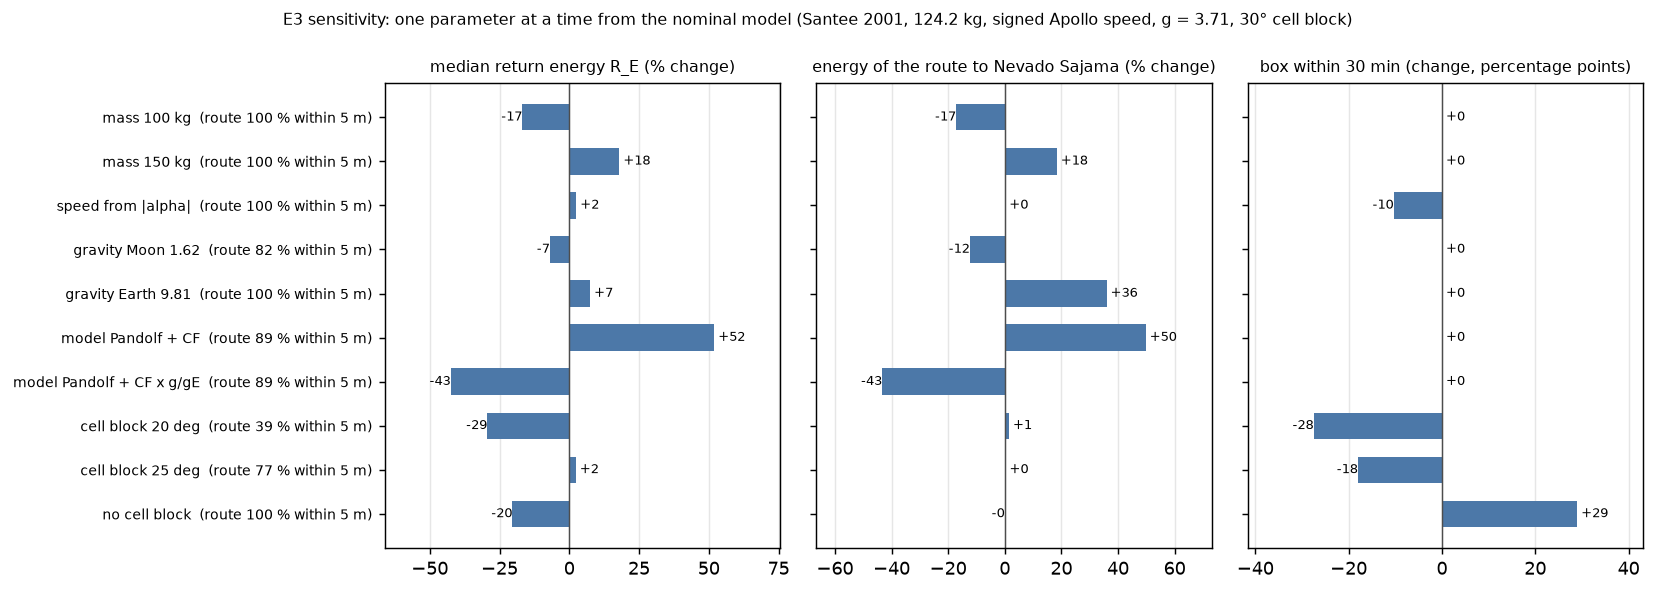
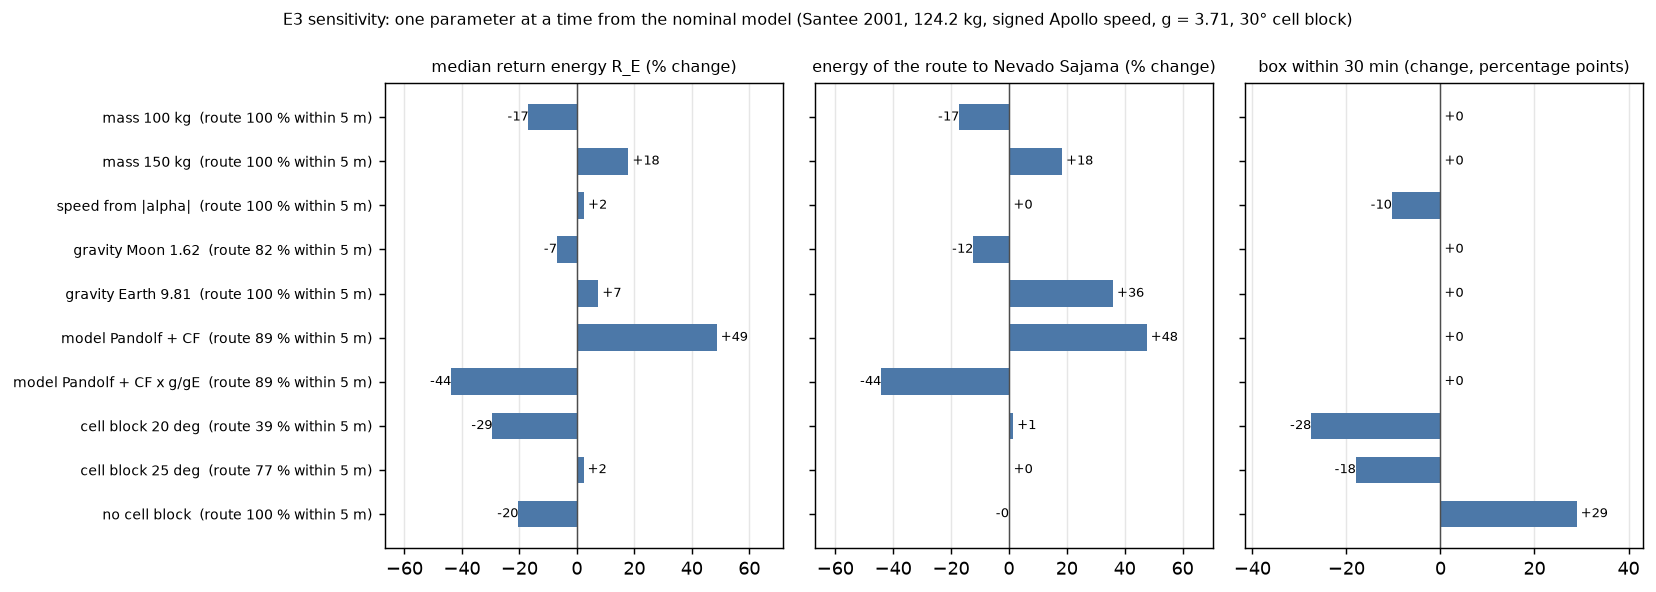
E3: masses from Carr et al. 2003 (76.4 kg astronaut + 47.8 kg suit = 124.2 kg)
The 124.2 kg total traces to Carr, Newman and Hodges (2003, SAE
2003-01-2416): Apollo 14 commander 76.4 kg plus a 47.8 kg suit. The code
comment said "75 + 47.8" and the Pandolf branch used W = 75 kg, so its
load was 124.2 - 75 = 49.2 kg instead of 47.8 kg.
- BODY_MASS_KG = 76.4; pandolf_flat defaults to 76.4 + 47.8.
- Santee nominal (124.2 kg) and every planner result are unchanged.
- Pandolf sensitivity only: flat Earth 315.87 -> 316.63 W, Moon 52.16 ->
  52.29 W; R_E median 205.2 -> 200.8 Wh, route 139.9 -> 137.8 Wh; scaled
  77.6 -> 75.9 Wh, 52.9 -> 52.1 Wh. e3_summary/e3_sensitivity and the
  two E3 figures regenerated; note and reference updated.

diff --git a/src/fisica/metabolic.py b/src/fisica/metabolic.py
@@ -14,7 +14,7 @@ Conventions (do not change without posting in the contracts issue):
 from math import cos, radians, sin, tan
 
 # Nominal parameters (declared assumptions, guide section 9)
-TOTAL_MASS_KG = 124.2          # total suited mass: astronaut + suit + load (the Pandolf check uses 75 + 47.8 kg)
+TOTAL_MASS_KG = 124.2          # 76.4 kg astronaut (Apollo 14 commander) + 47.8 kg suit (Carr et al. 2003)
 G_MARS = 3.71                  # m/s^2
 G_MOON = 1.62
 G_EARTH = 9.81
@@ -74,7 +74,7 @@ def liters_o2(energy_j):
 # with the Santee (2003) downhill correction CF, as reproduced in the CSRM.
 # Terrestrial model, no gravity term. Never mix it with Santee 2001.
 # ---------------------------------------------------------------------------
-BODY_MASS_KG = 75.0                     # W in Pandolf; the load is L = m - W
+BODY_MASS_KG = 76.4                     # W in Pandolf (Carr et al. 2003); the load is L = m - W = 47.8 kg
 
 
 def pandolf_cf_power(body_kg, load_kg, v_mps, alpha_deg, eta=1.0):

diff --git a/tests/fisica/test_metabolic.py b/tests/fisica/test_metabolic.py
@@ -65,7 +65,8 @@ def test_uphill_downhill_asymmetry():
 
 def test_pandolf_cf_branch_reference_values():
     from fisica.metabolic import pandolf_cf_power
-    assert pandolf_cf_power(75, 47.8, 0.75, 0) == pytest.approx(315.87, abs=0.01)   # guide section 6
+    # Carr et al. 2003: 76.4 kg astronaut + 47.8 kg suit (the guide's section 6 used W = 75 kg: 315.87 W)
+    assert pandolf_cf_power(76.4, 47.8, 0.75, 0) == pytest.approx(316.63, abs=0.01)
     up = pandolf_cf_power(75, 47.8, 0.65, 10)
     assert up == pytest.approx(pandolf_cf_power(75, 47.8, 0.65, 10, eta=1.0))      # no CF uphill
     assert pandolf_cf_power(75, 47.8, 0.85, -10) > 0

diff --git a/tests/fisica/test_edge_cost.py b/tests/fisica/test_edge_cost.py
@@ -92,7 +92,7 @@ def test_models_agree_on_definitions():
     a = np.array([0.0, 10.0, -10.0]); v = 0.75 - 0.01 * a
     pan = model_power("pandolf_cf", 124.2, v, a, G_MARS)
     for i in range(3):
-        assert pan[i] == pytest.approx(pandolf_cf_power(75, 49.2, v[i], a[i]), rel=1e-9)
+        assert pan[i] == pytest.approx(pandolf_cf_power(76.4, 47.8, v[i], a[i]), rel=1e-9)
     scaled = model_power("pandolf_cf_scaled", 124.2, v, a, G_MARS)
     assert np.allclose(scaled, pan * G_MARS / G_EARTH)
     with pytest.raises(ValueError):

diff --git a/src/fisica/paper_figures.py b/src/fisica/paper_figures.py
@@ -30,7 +30,7 @@ OUT_FIG = REPO / "paper" / "figures" / "e3_fig1_power_and_cost_vs_slope.png"
 m = TOTAL_MASS_KG
 
 
-def pandolf_flat(body_kg=75.0, load_kg=47.8, v=0.75, eta=1.0):
+def pandolf_flat(body_kg=76.4, load_kg=47.8, v=0.75, eta=1.0):
     """Pandolf (1977) on flat ground, alternative branch (guide section 6)."""
     w, l = body_kg, load_kg
     return 1.5 * w + 2.0 * (w + l) * (l / w) ** 2 + eta * (w + l) * 1.5 * v ** 2

diff --git a/paper/notes/E3_metabolic_cost.md b/paper/notes/E3_metabolic_cost.md
@@ -21,7 +21,7 @@ Why not Pandolf scaled by g_Mars/g_Earth (the CSRM's whole-power scaling)? It fa
 ### Speed, time and energy
 - Speed: Apollo regression V = 0.75 − 0.01·alpha (m/s, alpha in degrees, **signed**: downhill is faster). The CSRM does not say whether alpha is signed; we declare signed and report both in the checks.
 - A move of horizontal length d_h runs d_h / cos(alpha) over the surface, so dt = d_h / (V cos alpha) and E = M · dt (J). Metabolic O2 = E[kJ] / 20.1 kJ/L.
-- Parameters: m = 124.2 kg (total suited mass: astronaut, suit and load), g = 3.71 m/s². The Pandolf comparison uses body 75 kg + load 47.8 kg (122.8 kg); the two masses are not the same split.
+- Parameters: m = 124.2 kg, the Apollo 14 commander's 76.4 kg plus a 47.8 kg suit (cooling garment, suit and life support) [Carr2003]; g = 3.71 m/s². The Pandolf branch uses the same split, W = 76.4 kg and L = 47.8 kg. Until 2026-11-15 it used W = 75 kg (so L = 49.2 kg), as in the guide's section 6; corrected after tracing the 124.2 kg to Carr et al. (2003).
 
 ### Directed edge costs on the grid (`src/fisica/edge_cost.py`)
 - 8-neighbour graph; diagonal moves are √2 m. For each cell and neighbour k: alpha = atan(Δz / d_h) from the DEM, then dt and E as above. Arrays `time_s`, `energy_j`, `alpha_deg` of shape (8, 2000, 2000), float32, NaN = no edge. The graph is **directed**: going up an edge costs more than coming back down.
@@ -41,7 +41,7 @@ Source for every number: `src/fisica/paper_figures.py` → `data/e3/e3_summary.j
 | Quantity | Value | Guide [Guide-REV3] |
 |---|---|---|
 | Flat power, v = 0.75 m/s (Earth, Moon and Mars) | 292.23 W in all three | 292.23 W |
-| Pandolf flat on Earth → whole-power scaling on the Moon | 315.87 W → 52.16 W | 315.87 → 52.16 W |
+| Pandolf flat on Earth → whole-power scaling on the Moon | 316.63 W → 52.29 W (W = 76.4 kg, L = 47.8 kg) | 315.87 → 52.16 W (the guide uses W = 75 kg) |
 | Toy route 5 km (4.1 km flat + 0.9 km horizontal at +10°) | 2215.5 kJ = 615.4 Wh; 110.2 L O2 eq.; 1.91 h | 2215.5 kJ, 615.4 Wh, 110.2 L, 1.91 h |
 | Minimum cost per horizontal metre in ±20°, signed speed | 338.75 J/m at −7.10° | 338.75 J/m at −7.10° |
 | Same with speed from \|alpha\| | 351.00 J/m at −5.41° | 351.00 J/m at −5.41° |
@@ -107,8 +107,8 @@ One parameter at a time from the nominal model (Santee 2001, 124.2 kg, signed Ap
 | speed from |alpha| | 2215 kJ / 1.91 h | 138.4 | 84.4 % | 53.1 % | 93.5 Wh / 15.9 min | 100 % (1 m) |
 | gravity Moon 1.62 | 2071 kJ / 1.91 h | 125.6 | 84.4 % | 63.4 % | 81.8 Wh / 15.7 min | 82 % (17 m) |
 | gravity Earth 9.81 | 2636 kJ / 1.91 h | 145.1 | 84.4 % | 63.4 % | 127.0 Wh / 15.8 min | 100 % (2 m) |
-| model Pandolf + CF | 2892 kJ / 1.91 h | 205.2 | 84.4 % | 63.4 % | 139.9 Wh / 15.8 min | 89 % (16 m) |
-| model Pandolf + CF x g/gE | 1094 kJ / 1.91 h | 77.6 | 84.4 % | 63.4 % | 52.9 Wh / 15.8 min | 89 % (16 m) |
+| model Pandolf + CF | 2840 kJ / 1.91 h | 200.8 | 84.4 % | 63.4 % | 137.8 Wh / 15.8 min | 89 % (16 m) |
+| model Pandolf + CF x g/gE | 1074 kJ / 1.91 h | 75.9 | 84.4 % | 63.4 % | 52.1 Wh / 15.8 min | 89 % (16 m) |
 | cell block 20 deg | 2215 kJ / 1.91 h | 95.3 | 42.9 % | 35.9 % | 94.8 Wh / 16.0 min | 39 % (57 m) |
 | cell block 25 deg | 2215 kJ / 1.91 h | 138.2 | 70.4 % | 45.4 % | 93.6 Wh / 15.8 min | 77 % (17 m) |
 | no cell block | 2215 kJ / 1.91 h | 107.5 | 99.1 % | 92.4 % | 93.3 Wh / 15.7 min | 100 % (1 m) |
@@ -118,7 +118,7 @@ One parameter at a time from the nominal model (Santee 2001, 124.2 kg, signed Ap
 *Figure E3-2. Change against the nominal model of the median return energy, the energy of the route to Nevado Sajama, and the share of the box within 30 min. Labels give the share of each route within 5 m of the nominal route.*
 
 What it shows:
-- **Energy follows mass and model, not time.** Mass changes energy almost proportionally (±17–18 %), and the route stays identical. The metabolic model is the largest energy uncertainty: Pandolf + CF gives +50–52 % and its g-scaled version −43 %, a factor of 2.6 between them. Gravity applied only to the slope term moves the route energy by −12 % (Moon) to +36 % (Earth).
+- **Energy follows mass and model, not time.** Mass changes energy almost proportionally (±17–18 %), and the route stays identical. The metabolic model is the largest energy uncertainty: Pandolf + CF gives +48–49 % and its g-scaled version −44 %, a factor of 2.6 between them. Gravity applied only to the slope term moves the route energy by −12 % (Moon) to +36 % (Earth).
 - **The 30 min line depends only on the speed convention and the cell block,** because E3's speed has no mass, gravity or model term. With speed from |alpha| the share within 30 min falls from 63.4 % to 53.1 %: downhill becomes slower. With the cell block it ranges from 35.9 % (20°) to 92.4 % (no block).
 - **Routes are robust to the physiology, not to the block.** Under every mass, speed and gravity choice, 82–100 % of the route stays within 5 m of the nominal route, and both Pandolf branches keep 89 %. A 20° cell block reroutes it (39 % within 5 m, up to 57 m away) and leaves only 42.9 % of the box able to return.
 - Caveat on the median R_E column: changing the block changes *which* cells can return, so the median is over a different set (20° gives a lower median because only cells near the habitat remain). Read it together with the reachable share.

diff --git a/paper/references.md b/paper/references.md
@@ -6,7 +6,7 @@ Short key, then the source. Add yours in alphabetical order of key; complete ent
 - **[Allison2000]** Allison, M. and McEwen, M. (2000). A post-Pathfinder evaluation of areocentric solar coordinates with improved timing recipes for Mars seasonal/diurnal climate studies. Planetary and Space Science 48, 215–235. Implemented from the equation list and worked examples of the NASA GISS Mars24 page "Algorithm and Worked Examples" (page dated 2025-01-07, read 2026-11-14), which carries the constants revised after the paper: https://www.giss.nasa.gov/tools/mars24/help/algorithm.html
 - **[Brady2019]** Brady, A. L. et al. (2019). BASALT science operations: station selection against a Science Traceability Matrix. Astrobiology 19(3), BASALT special issue (title not checked). Full text: https://www.ebi.ac.uk/europepmc/webservices/rest/PMC6442241/fullTextXML
 - **[Broddrick2024]** Broddrick et al. (2024). Lunar EVA "Science Yield" prototype for the Science Evaluation Room (3/2/1 relevance x priority, MILP). LPSC 2024, NTRS 20240000165 (title not checked). https://ntrs.nasa.gov/citations/20240000165
-- **[Carr2003]** Carr, C. E., Newman, D. J. and Hodges, K. V. (2003). Apollo 14 EVA energy estimates (NASA 1495/1599 kJ, model 1443/1430 kJ). Full title not checked; cited through [Guide-REV3]. http://web.mit.edu/aeroastro/www/people/dnewman/pdfs/DJN_paper3.43.pdf
+- **[Carr2003]** Carr, C. E., Newman, D. J. and Hodges, K. V. (2003). Geologic Traverse Planning for Planetary EVA. SAE Technical Paper 2003-01-2416. Apollo 14 EVA energy estimates (NASA 1495/1599 kJ, model 1443/1430 kJ); astronaut masses 76.4 kg (commander) and 80.1 kg (lunar module pilot), suit 47.8 kg, the source of E3's m = 124.2 kg = 76.4 + 47.8 kg. Local copy: data/09_papers/metabolismo_y_eva/Carr_2003_geologic-traverse-planning-eva.pdf. http://web.mit.edu/aeroastro/www/people/dnewman/pdfs/DJN_paper3.43.pdf
 - **[Dorigo1997]** Dorigo, M. and Gambardella, L. M. (1997). Ant colony system: a cooperative learning approach to the traveling salesman problem. IEEE Transactions on Evolutionary Computation 1(1), 53–66. Ant colony system used in E6.
 - **[Guide-REV3]** Team study guide *Planificador de EVA en Marte: guía de estudio de cero a experto*, technical revision 3, 2026-11-13 (`Guia_zero_a_hero_Planificador_EVA_Marte_2026_REV3.pdf`, shared by the team, not in git). Source of the reference values for E3.
 - **[Gunawan2016]** Gunawan, A., Lau, H. C. and Vansteenwegen, P. (2016). Orienteering Problem: A survey of recent variants, solution approaches and applications. European Journal of Operational Research 255(2), 315–332.
